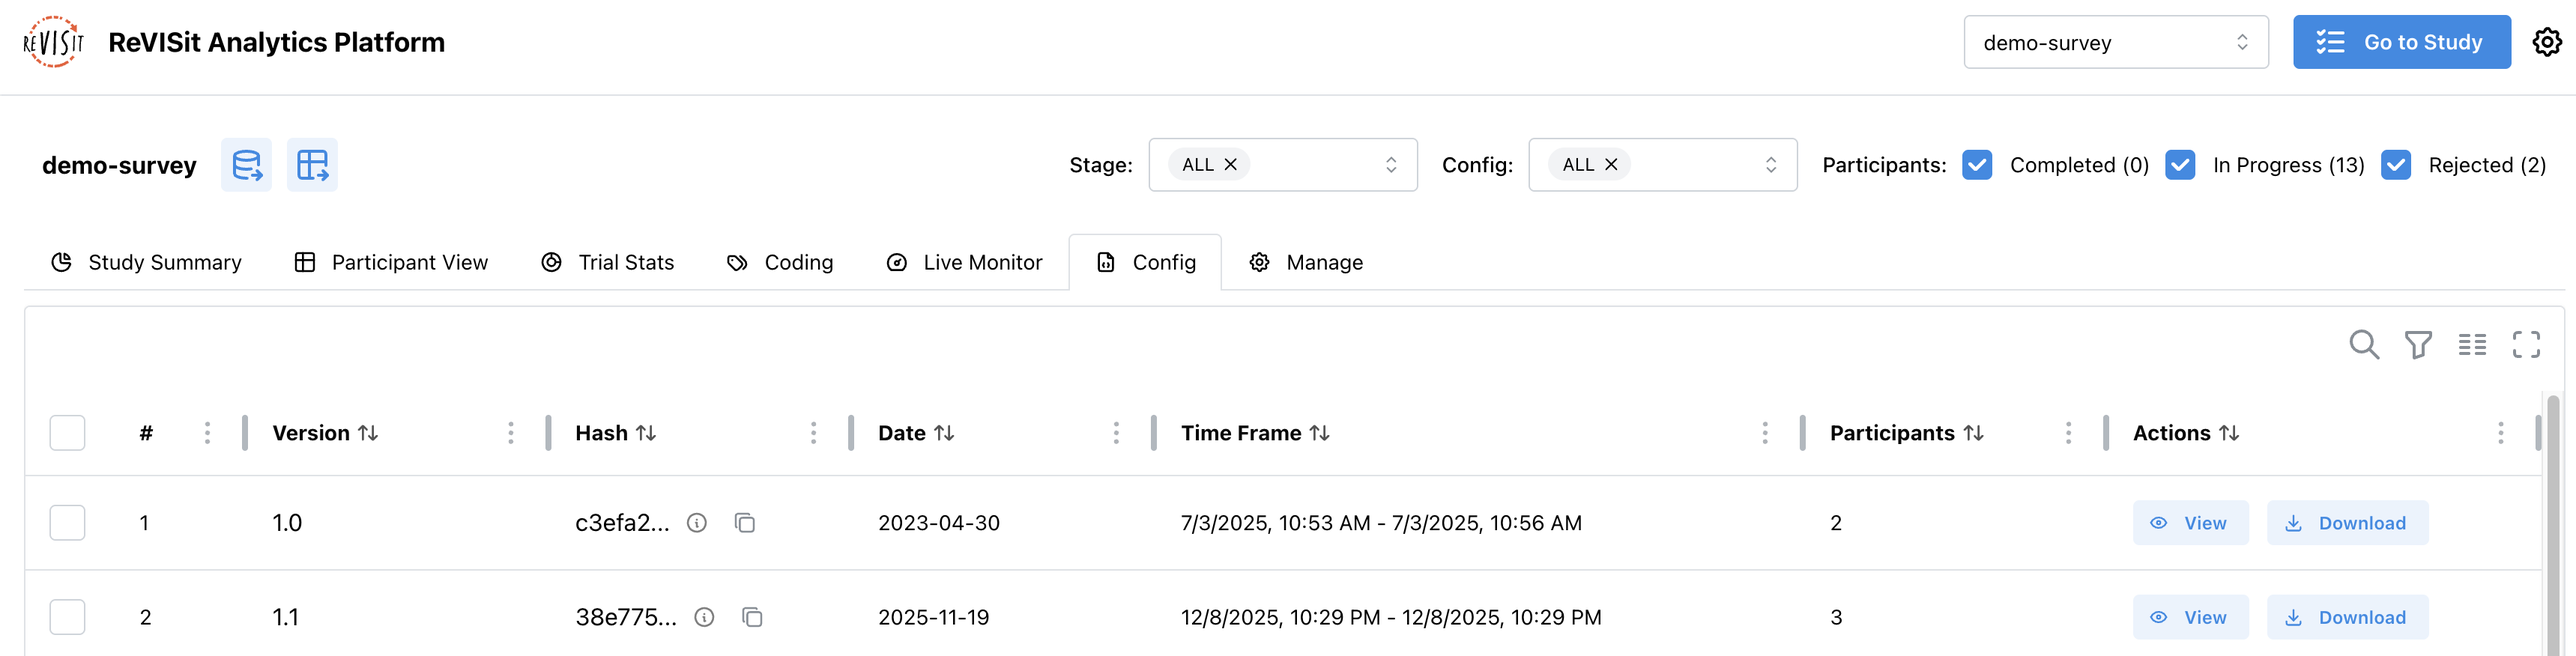
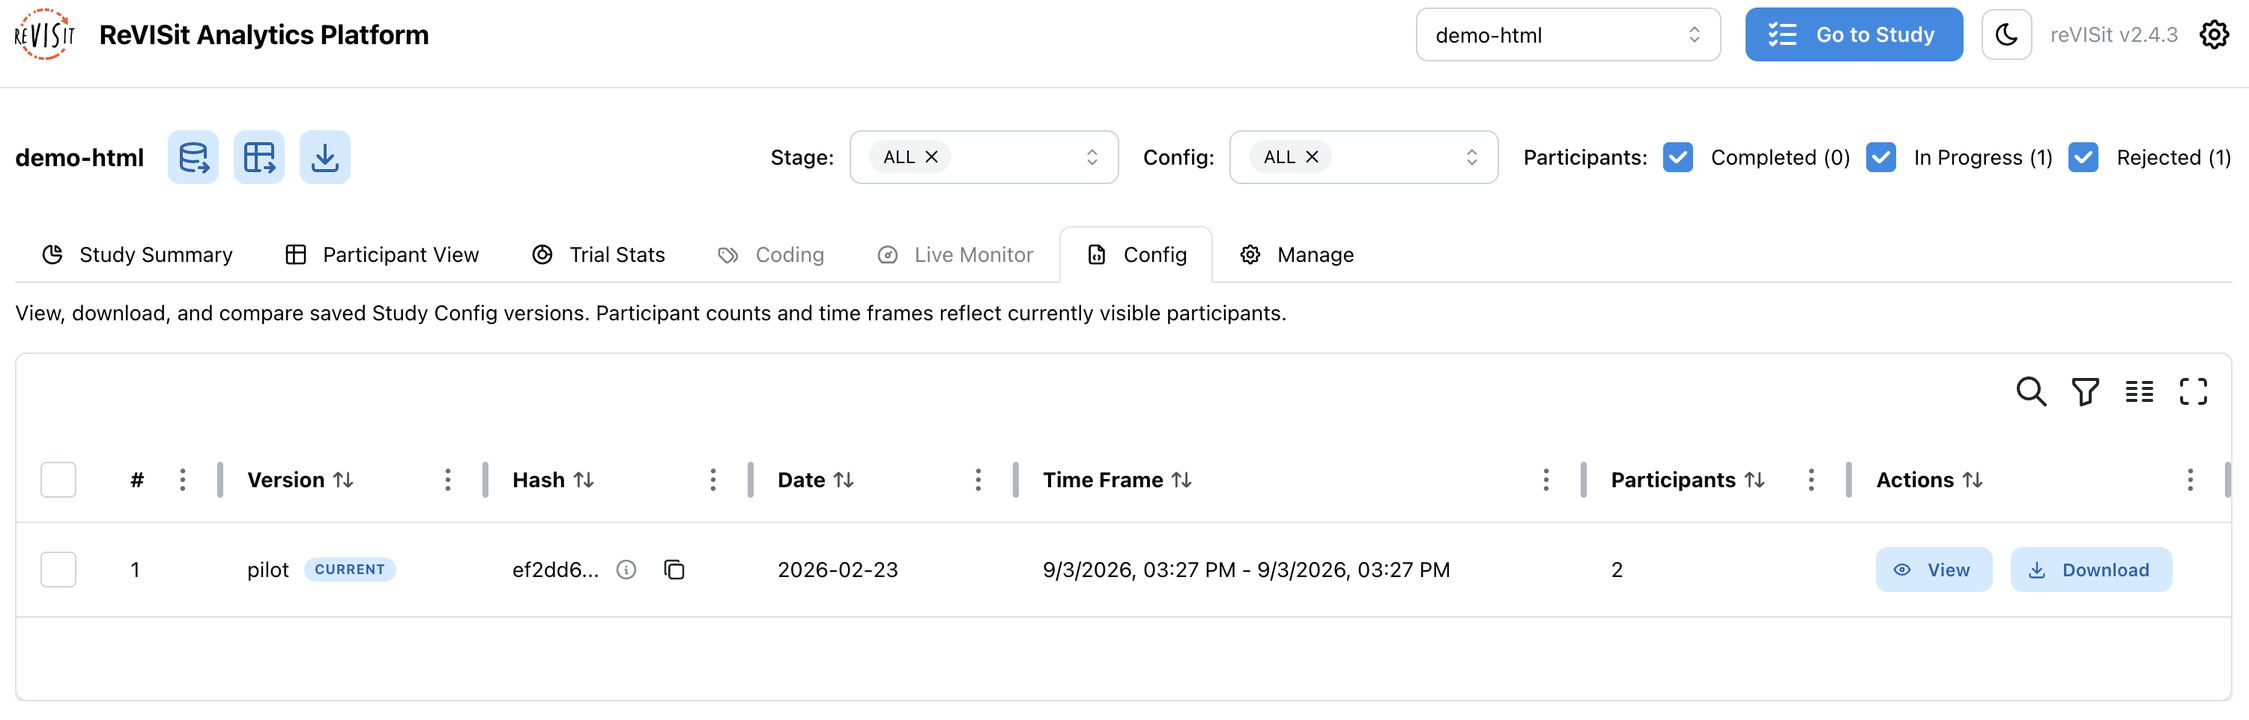
Enhance documentation for Config and Data Export sections

diff --git a/docs/analysis/data-export.md b/docs/analysis/data-export.md
@@ -6,7 +6,7 @@ ReVISit allows you to export data in [Tidy](https://cran.r-project.org/web/packa
 
 The exported tidy data includes all the responses from the participants, including the participant ID, trial ID, trial order, and response ID. Additionally, we provide the parameters and correct answers that were set in the study configuration file (or by dynamic block). This data can be used to analyze the performance of participants, the accuracy of responses, and the time taken to complete the study.
 
-The tidy CSV and standard JSON downloads do not include provenance graphs. If you need this data, use the [provenance ZIP download](./#download-provenance) and parse the separate provenance JSON files in your analysis platform.
+The tidy CSV and standard JSON downloads do not include provenance graphs. If you need this data, use the [provenance ZIP download](#download-provenance) and parse the separate provenance JSON files in your analysis platform.
 
 ### Steps to Download Data
 
@@ -22,6 +22,16 @@ The tidy CSV and standard JSON downloads do not include provenance graphs. If yo
 
 ![Tidy export CSV explorer](./img/data-export/tidy-export-csv-exporter.png)
 
+
+### Include Window Events
+
+Window events, such as mouse movements, key presses, and changes in window focus, are excluded from Tidy CSV exports by default. To include them, select `windowEvents` under **Optional columns** in the **CSV Exporter** and keep `answer` selected.
+
+This adds one summary row per trial with `responseId` set to `windowEvents`. The `answer` contains a JSON object with a count for each event type, including zero counts when no events were recorded. It summarizes event counts rather than listing individual events or their timestamps.
+
+Deselect `windowEvents` to remove these rows from the preview and export. This setting does not change the recorded data or JSON downloads.
+
+![The windowEvents option is selected under Optional columns, and the Tidy CSV preview includes rows with windowEvents as the responseId.](./img/data-export/window-events.png)
 
 ### Export Qualitative Tags
 
@@ -152,6 +162,34 @@ To download recordings from specific participants, select the participants in th
 
 3. Click on the **Download recordings** button. If both screen and webcam recordings are available for the task, both files are downloaded.
 ![Download screen recording video](./img/data-export/screen-recording-export-3.png)
+
+## Export Study Pages to PDF
+
+Save a study page as a PDF to share its instructions, stimulus, and questions with collaborators or include it in study materials. Each export captures the current page and its response values. To save several pages, open and export each one separately.
+
+### Export the Current Page
+
+1. Open the study page you want to save. Wait for its content to load and enter any responses you want to show in the PDF. For a video stimulus, pause on the frame you want to include.
+2. Open **Study actions**, the three-dot menu at the top right. This menu is available even when the study title bar is hidden.
+3. Select **Export page as PDF**. Wait for **PDF exported** and the download to finish.
+4. Open the downloaded file and check its content. The filename includes the component name and export date and time, such as `introduction_2026-09-29T14-30-00.pdf`.
+
+![Export page as PDF is highlighted in the Study actions menu at the top right of the study page.](./img/data-export/pdf-export-menu.png)
+
+The PDF includes a header with the study title and component name, the stimulus, visible responses, the response sidebar when shown, and the **Next** button when present. Exporting does not submit your responses or advance the study.
+
+### What the PDF Captures
+
+- Markdown, images, React content, Vega/SVG visualizations, and Canvas content are captured as they appear at export time.
+- Embedded HTML pages can be captured when hosted on the same origin as the study: the same protocol, hostname, and port.
+- Videos are captured as a still image of the current frame.
+- The content is scaled to fit one A4 page. ReVISit chooses landscape or portrait automatically; long pages may have small text.
+
+:::warning[Embedded external websites prevent export]
+If the page includes an external website or an embedded page the browser cannot access, ReVISit shows **PDF export unavailable** and does not download a PDF. To export that content, host it with the study and make sure the embedded page is accessible.
+:::
+
+If **PDF export failed** appears, wait for the page content to finish loading and try again.
 
 import StructuredLinks from '@site/src/components/StructuredLinks/StructuredLinks.tsx';
 

diff --git a/docs/analysis/participant-replay.md b/docs/analysis/participant-replay.md
@@ -25,7 +25,24 @@ Use the **Time / Uniform** control in the toolbar above the participant table to
 
 Uniform mode does not change the task order selected with the **Order** control. Task colors continue to distinguish correct, incorrect, incomplete, and recorded responses whose correctness is not configured.
 
-Task replay is intended to be used with provenance, audio recording, or both. Audio and provenance are synced, and the provenance data is used to rehydrate the task stimulus, showing researchers what participants saw while taking the study. This includes the moment validation errors were revealed after a Participant attempted to continue, so replay shows the same highlighted validation state.
+## Replay a Task
+
+Task replay can include provenance, audio, and screen or webcam recordings, depending on what the study collected. Recordings and provenance follow the same replay clock. Provenance restores the task stimulus, showing what Participants saw while taking the study. This includes the moment validation errors were revealed after a Participant attempted to continue, so replay shows the same highlighted validation state.
+
+Use the controls in the replay footer:
+
+- **Play / Pause** starts or pauses playback.
+- Click a point on the audio/provenance timeline to jump to that time.
+- **Speed** (shown as a multiplier such as **1x**) changes the playback speed.
+- **Restart** appears when the task ends. Select it to play the task again from the beginning.
+
+The timer follows the task's recorded start and end times. If an audio or video recording is shorter than the task, the timer and provenance replay continue through the remaining time.
+
+Scroll the page to reach long task instructions or sidebar responses. The task content and response sidebar scroll together, while the replay controls stay fixed at the bottom.
+
+:::info
+The **Next Participant** actions in the study header menu and Study Browser are disabled during replay because they create a new Participant session. To review another recorded Participant, use the Participant selector in the replay footer.
+:::
 
 For stimuli that use managed Trrack provenance, replay follows the recorded interaction path, including undo, redo, and revisiting an existing state. Historical graph-only provenance remains replayable, but may not reproduce those traversals as faithfully.
 
@@ -34,6 +51,12 @@ For stimuli that use managed Trrack provenance, replay follows the recorded inte
 If a participant hasn't completed any tasks yet, you'll see a warning message indicating that no task data is available for replay. This typically happens when a participant is still in progress or dropped out before submitting any responses.
 ![Incomplete task](./img/participant-replay/participant-replay-incomplete.png)
 :::
+
+### Browser Compatibility
+
+When a screen or webcam recording was captured in a different browser, a warning above the replay footer identifies the Participant's browser and your current browser. Video playback may not work properly. If you have trouble playing the recording, open the replay in the browser named in the warning. You can close the warning to continue reviewing the task.
+
+## Link to a Timestamp
 
 If you’d like to link to a specific timestamp in the replay, you can use the `&t` query parameter in your URL.
 For example, this link will jump to 40 seconds in the replay: https://revisit.dev/study/example-brush-interactions/LzE2MTl4ZVRMTk5nSFlNYmd1ZDhjZz09?participantId=e4377e49-0f35-461a-bd9c-c31523599db7&t=40s

diff --git a/docs/analysis/config.md b/docs/analysis/config.md
@@ -1,25 +1,24 @@
 # Config
 
-The Config tab shows all the different versions of your study configuration that participants have used.
+Open the **Config** tab in the Analysis platform to view, download, and compare saved Study Config versions. It includes the current version, when available, and versions used by Participants who match your current filters.
 
 ## Overview
 
 Each time you change your `config.json` file and deploy it, reVISit creates a unique hash for that version.
 
-![Config tab](./img/config/config.png)
+![The Config tab shows the current Study Config version with participant counts and time frames for the current filters.](./img/config/config.png)
 
 The Config table has several columns. The version column shows the identifier from your `studyMetadata.version` field (like `1.0.0` or `pilot`). The latest deployed config is marked with a Current badge. The hash column shows a unique code based on your actual config content. If anything changes in your config, you get a new hash, even if you forget to update the version number. Hover over the info icon to see the full hash, or click the copy icon to copy it.
 
-The date column shows when you created that version (from `studyMetadata.date`). The time frame column shows when participants actually used it, from the first to the last participant. The participants column tells you how many people used each version.
+The **Date** column shows the date from `studyMetadata.date`. **Time Frame** shows the period of recorded activity for each version, and **Participants** shows how many Participants used it. Both reflect only the Participants visible under your current filters. A saved current version can appear with zero Participants; unavailable timing information is shown as `N/A`.
 
-Update your `studyMetadata` in `config.json` every time you make changes:
+Update the `version` and `date` fields in your `studyMetadata` when you change your Study Config. This partial example shows the fields to update; keep your other metadata fields:
 
 ```json title="public/study-name/config.json"
 {
   "studyMetadata": {
     "version": "pilot",
-    "date": "2026-02-17",
-    ...
+    "date": "2026-02-17"
   }
 }
 ```
@@ -56,6 +55,12 @@ The Config tab syncs with filters in other tabs. Config names are displayed as `
 ![Filter Config](./img/config/filter-config.png)
 
 Select "ALL" to see everyone, or choose specific versions to analyze just those participants. This is useful when you want to analyze only your final version, compare responses across versions, exclude pilot data, or analyze different study runs separately.
+
+## Empty Results and Loading Errors
+
+- **No Study Config versions are available for the current filters.** No saved versions are available for this view. Check your filters and try including more Participants.
+- **Unable to load saved Study Config versions.** The request failed. Check your connection and reload the page to try again.
+- **Unable to identify the current Study Config version.** ReVISit could not determine which version is current. If versions used by Participants are available, you can still view, download, and compare them, but no version is marked **Current**. Reload the page to try again.
 
 import StructuredLinks from '@site/src/components/StructuredLinks/StructuredLinks.tsx';
 
